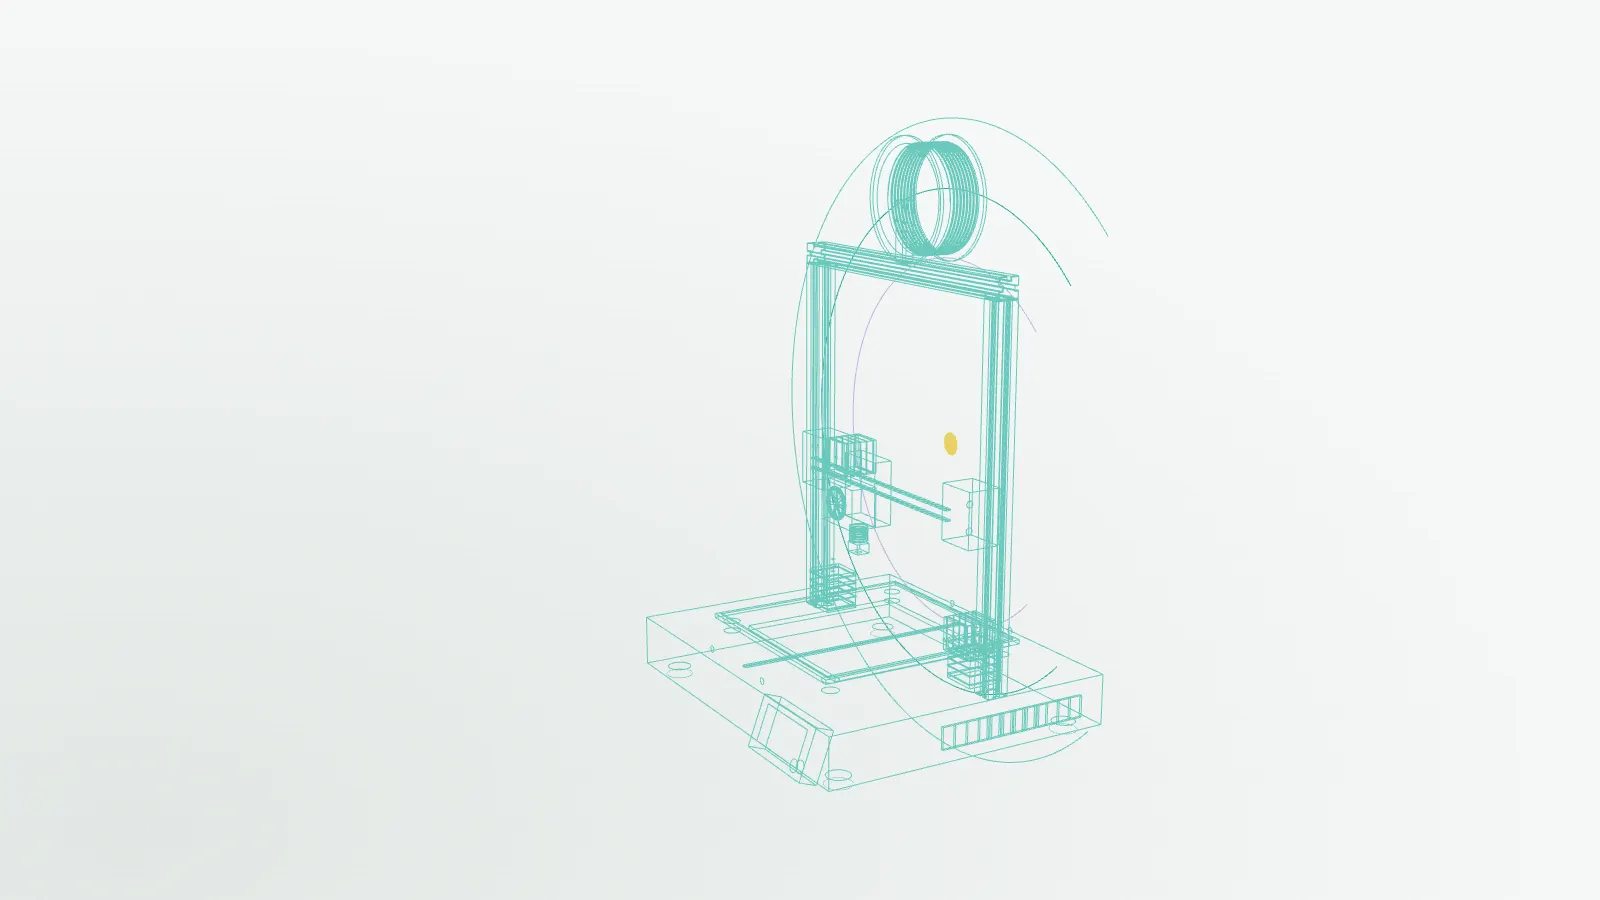
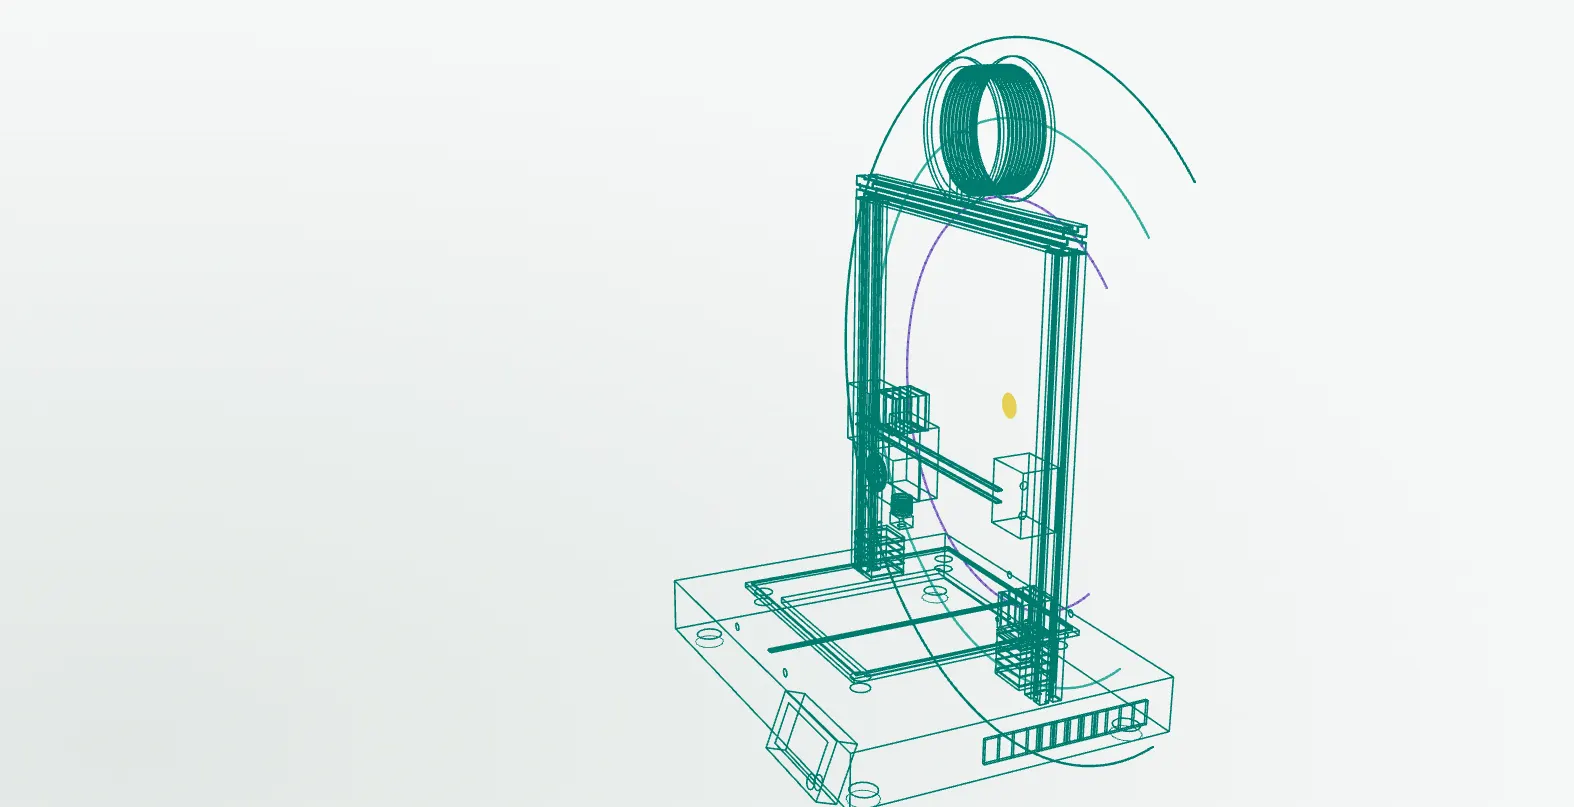
Refine the home story: brand colours, larger printer, slower scroll
The opening drawing uses wide lines in the site's teal and violet and
follows the theme. The print head is yellow, the filament and printed mug
are teal, and the dark studio sits on the site's dark blue instead of warm
brown. The camera is closer, stepping back while the printer is apart so
every part stays in view, and the story takes about 1.5 times as much
scrolling.

Until the scene loads, wide screens show its first frame as a poster, so
the page no longer opens with an empty half. render-stills now drives the
browser over the DevTools protocol and waits for the scene to report it
is drawn, instead of relying on a fixed time budget that captured empty
frames.

Changed region(s): [[0.4047, 0.031, 0.7471, 1.0], [0.716, 0.1239, 0.7471, 0.1549], [0.5915, 0.9603, 0.6226, 0.9913]]

diff --git a/src/scene/drawing.ts b/src/scene/drawing.ts
@@ -1,20 +1,34 @@
 import * as THREE from "three";
+import { Line2 } from "three/addons/lines/Line2.js";
+import { LineGeometry } from "three/addons/lines/LineGeometry.js";
+import { LineMaterial } from "three/addons/lines/LineMaterial.js";
+import { LineSegments2 } from "three/addons/lines/LineSegments2.js";
+import { LineSegmentsGeometry } from "three/addons/lines/LineSegmentsGeometry.js";
+import type { Theme } from "../theme/theme";
 import type { Printer } from "./printer";
 
 export interface Drawing {
   /** lineT draws the outline; fillT fades the outline out and the real materials in. */
   setReveal(lineT: number, fillT: number): void;
+  setTheme(theme: Theme): void;
+  /** Line widths are in pixels, so the lines need the canvas size. */
+  setResolution(width: number, height: number): void;
   dispose(): void;
 }
 
-const LINE = 0x3cc2b0;
+// The site's teal and violet: deep on paper, bright on the dark studio.
+const LINE: Record<Theme, number> = { light: 0x00756a, dark: 0x3cc2b0 };
+const ARCS: Record<Theme, number[]> = {
+  light: [0x00756a, 0x2a9d8f, 0x5b3fa8],
+  dark: [0x3cc2b0, 0x2a9d8f, 0x7c63d6],
+};
 const ACCENT = 0xf5c400;
 
 /**
  * The opening "technical drawing": the printer's own edges drawn as lines,
  * with the logo's concentric arcs behind it, then filled in with materials.
  */
-export function createDrawing(printer: Printer): Drawing {
+export function createDrawing(printer: Printer, theme: Theme): Drawing {
   printer.root.updateMatrixWorld(true);
   const rootInverse = printer.root.matrixWorld.clone().invert();
 
@@ -33,25 +47,24 @@ export function createDrawing(printer: Printer): Drawing {
     }
     edges.dispose();
   });
-  const geometry = new THREE.BufferGeometry();
-  geometry.setAttribute("position", new THREE.Float32BufferAttribute(positions, 3));
-  const vertexCount = positions.length / 3;
-  const lineMaterial = new THREE.LineBasicMaterial({ color: LINE, transparent: true, depthWrite: false });
-  const lines = new THREE.LineSegments(geometry, lineMaterial);
+  const geometry = new LineSegmentsGeometry().setPositions(positions);
+  const segmentCount = positions.length / 6;
+  const lineMaterial = new LineMaterial({ color: LINE[theme], linewidth: 1.6, transparent: true, depthWrite: false });
+  const lines = new LineSegments2(geometry, lineMaterial);
   printer.root.add(lines);
 
   // Three arcs like the logo, standing behind the printer.
   const arcGroup = new THREE.Group();
   arcGroup.position.set(0, 30, -12);
-  const arcMaterials: THREE.LineBasicMaterial[] = [];
-  const arcGeometries: THREE.BufferGeometry[] = [];
+  const arcMaterials: LineMaterial[] = [];
+  const arcGeometries: LineGeometry[] = [];
   [38, 30, 22].forEach((r, i) => {
     const curve = new THREE.EllipseCurve(0, 0, r, r, Math.PI * 0.25, Math.PI * 1.75, false, 0);
-    const g = new THREE.BufferGeometry().setFromPoints(curve.getPoints(96));
-    const m = new THREE.LineBasicMaterial({ color: i === 0 ? LINE : i === 1 ? 0x2a9d8f : 0x7c63d6, transparent: true, depthWrite: false });
+    const g = new LineGeometry().setPositions(curve.getPoints(96).flatMap((p) => [p.x, p.y, 0]));
+    const m = new LineMaterial({ color: ARCS[theme][i], linewidth: 2.4, transparent: true, depthWrite: false });
     arcGeometries.push(g);
     arcMaterials.push(m);
-    arcGroup.add(new THREE.Line(g, m));
+    arcGroup.add(new Line2(g, m));
   });
   const dotGeometry = new THREE.CircleGeometry(1.4, 24);
   const dotMaterial = new THREE.MeshBasicMaterial({ color: ACCENT, transparent: true, depthWrite: false });
@@ -71,7 +84,7 @@ export function createDrawing(printer: Printer): Drawing {
 
   return {
     setReveal(lineT, fillT) {
-      geometry.setDrawRange(0, Math.floor((vertexCount * lineT) / 2) * 2);
+      geometry.instanceCount = Math.floor(segmentCount * lineT);
       const outline = 1 - fillT;
       lineMaterial.opacity = outline;
       lines.visible = outline > 0.01;
@@ -94,6 +107,14 @@ export function createDrawing(printer: Printer): Drawing {
         for (const mesh of shadowCasters) mesh.castShadow = fillT > 0.3;
         lastFill = fillT;
       }
+    },
+    setTheme(next) {
+      lineMaterial.color.setHex(LINE[next]);
+      arcMaterials.forEach((m, i) => m.color.setHex(ARCS[next][i]));
+    },
+    setResolution(width, height) {
+      lineMaterial.resolution.set(width, height);
+      arcMaterials.forEach((m) => m.resolution.set(width, height));
     },
     dispose() {
       geometry.dispose();

diff --git a/src/scene/runScene.ts b/src/scene/runScene.ts
@@ -40,6 +40,9 @@ export interface SceneHandle {
 /** Lets the browser handle input and paint between the heavier set-up steps. */
 const yieldToMain = () => new Promise<void>((resolve) => setTimeout(resolve, 0));
 
+/** How much of the drawing shows at the very top of the page. */
+const DRAWING_START = 0.4;
+
 export async function startScene(canvas: HTMLCanvasElement, opts: SceneOptions): Promise<SceneHandle> {
   const quality = new QualityController(opts.quality);
   const renderer = new THREE.WebGLRenderer({ canvas, antialias: opts.quality === 2, powerPreference: "high-performance" });
@@ -58,7 +61,7 @@ export async function startScene(canvas: HTMLCanvasElement, opts: SceneOptions):
   scene.add(stage);
   const studio = createStudio(renderer, scene, opts.theme, opts.quality, stage, printer.root.position.y);
   await yieldToMain();
-  const drawing = createDrawing(printer);
+  const drawing = createDrawing(printer, opts.theme);
   await yieldToMain();
   const job = createPrintJob(printer.bedSurface, opts.quality);
   const hand = createHand(opts.quality);
@@ -74,10 +77,11 @@ export async function startScene(canvas: HTMLCanvasElement, opts: SceneOptions):
     const { clientWidth: w, clientHeight: h } = canvas;
     if (!w || !h) return;
     renderer.setSize(w, h, false);
+    drawing.setResolution(w, h);
     camera.aspect = w / h;
     // Wide screens keep the text on the left and the printer on the right.
     wide = camera.aspect > 1.1;
-    stage.position.x = wide ? 28 : 0;
+    stage.position.x = wide ? 34 : 0;
     stage.position.y = wide ? 4 : 16;
     camera.updateProjectionMatrix();
     handle.invalidate();
@@ -90,10 +94,12 @@ export async function startScene(canvas: HTMLCanvasElement, opts: SceneOptions):
   const home = new THREE.Vector3();
   const lookAt = new THREE.Vector3();
 
-  function placeCamera(use: number, mug: THREE.Vector3) {
-    // In the last scene the camera moves in and turns towards the mug.
+  function placeCamera(use: number, apart: number, mug: THREE.Vector3) {
+    // The camera steps back while the printer is apart, so every part stays in
+    // view. In the last scene it moves in and turns towards the mug.
     const push = smoothstep(use);
-    camera.position.set(85 - push * 35, 46 - push * 16, (wide ? 180 : 240) - push * (wide ? 90 : 120));
+    const back = apart * (wide ? 30 : 40);
+    camera.position.set(85 - push * 35, 46 - push * 16, (wide ? 140 : 190) + back - push * (wide ? 50 : 70));
     home.set(wide ? 20 : 0, 2, 0);
     lookAt.copy(home).lerp(mug, push * 0.85);
     camera.lookAt(lookAt);
@@ -127,9 +133,10 @@ export async function startScene(canvas: HTMLCanvasElement, opts: SceneOptions):
 
     const p = opts.getProgress();
 
-    // 1. Drawing → object.
+    // 1. Drawing → object. The drawing is already under way at the top of the
+    //    page, matching the poster frame shown before the scene loads.
     const draw = localProgress(p, "draw");
-    drawing.setReveal(smoothstep(draw / 0.6), smoothstep((draw - 0.55) / 0.45));
+    drawing.setReveal(DRAWING_START + (1 - DRAWING_START) * smoothstep(draw / 0.6), smoothstep((draw - 0.55) / 0.45));
 
     // 2–3. Turn, then take apart.
     stage.rotation.y = -0.7 + localProgress(p, "meet") * 1.4 + localProgress(p, "explode") * 0.5 - localProgress(p, "print") * 0.5;
@@ -167,7 +174,7 @@ export async function startScene(canvas: HTMLCanvasElement, opts: SceneOptions):
     hand.object.position.set(mugInStage.x + 9 + (1 - use.hand) * 30, mugInStage.y + 3 - (1 - use.hand) * 18, mugInStage.z);
     hand.object.rotation.y = job.object.rotation.y;
     hand.setPose(use.grip);
-    placeCamera(u, mugWorld);
+    placeCamera(u, apart, mugWorld);
 
     renderer.render(scene, camera);
     updateLabels(apart);
@@ -177,6 +184,7 @@ export async function startScene(canvas: HTMLCanvasElement, opts: SceneOptions):
   const handle: SceneHandle = {
     setTheme(theme) {
       studio.setTheme(theme);
+      drawing.setTheme(theme);
       handle.invalidate();
     },
     invalidate() {

diff --git a/src/components/HomeStory.tsx b/src/components/HomeStory.tsx
@@ -1,7 +1,7 @@
 "use client";
 
 import Link from "next/link";
-import { useEffect, useRef, useState } from "react";
+import { type CSSProperties, useEffect, useRef, useState } from "react";
 import type { Dictionary, Locale } from "@/i18n/config";
 import { PART_IDS, type PartId } from "@/scene/parts";
 import { initialQuality } from "@/scene/quality";
@@ -9,7 +9,7 @@ import type { SceneHandle } from "@/scene/runScene";
 import { progressFor } from "@/scene/scrollProgress";
 import { SCENES, localProgress } from "@/scene/timeline";
 import { readTheme, useTheme } from "@/theme/useTheme";
-import { STILLS } from "./storyStills";
+import { POSTERS, STILLS } from "./storyStills";
 
 type Mode = "pending" | "live" | "stills";
 
@@ -166,7 +166,10 @@ export function HomeStory({ lang, t }: { lang: Locale; t: Dictionary["home"] }) 
       className={`story story--${mode}${ready ? " story--ready" : ""}${still ? " story--still" : ""}`}
       aria-labelledby="story-title"
     >
-      <div className="story__stage">
+      <div
+        className="story__stage"
+        style={{ "--poster-light": `url(${POSTERS.light.src})`, "--poster-dark": `url(${POSTERS.dark.src})` } as CSSProperties}
+      >
         <canvas ref={canvasRef} className="story__canvas" aria-hidden="true" />
         {/* Part labels; screen readers get the same list in the story text. */}
         <div className="story__labels" aria-hidden="true">

diff --git a/src/app/globals.css b/src/app/globals.css
@@ -351,6 +351,24 @@ main:focus {
   overflow: hidden;
 }
 
+/* Until the scene loads, wide screens show its first frame. Scaled to the
+   stage height, it lines up with the canvas at any width. */
+@media (min-aspect-ratio: 11/10) {
+  .story__stage {
+    background: var(--poster-light) center / auto 100% no-repeat;
+  }
+
+  :root[data-theme="dark"] .story__stage {
+    background-image: var(--poster-dark);
+  }
+}
+
+@media (min-aspect-ratio: 11/10) and (prefers-color-scheme: dark) {
+  :root:not([data-theme="light"]) .story__stage {
+    background-image: var(--poster-dark);
+  }
+}
+
 .story__canvas {
   position: absolute;
   inset: 0;
@@ -392,7 +410,7 @@ main:focus {
 }
 
 .story__beat {
-  min-height: 120svh;
+  min-height: 180svh;
   display: flex;
   flex-direction: column;
   justify-content: flex-start;
@@ -402,7 +420,7 @@ main:focus {
 }
 
 .story__beat--intro {
-  min-height: 100svh;
+  min-height: 150svh;
   opacity: 1;
 }
 
@@ -449,6 +467,7 @@ main:focus {
   position: fixed;
   inset: 0;
   height: 100vh;
+  background: none;
 }
 
 /* Still frames serve both languages, so they carry no label text. */
@@ -464,6 +483,11 @@ main:focus {
   .story__beat {
     justify-content: center;
     padding-block: 0;
+  }
+
+  /* The intro stays centred in the first screen; the rest is scroll room. */
+  .story__beat--intro {
+    padding-bottom: 50svh;
   }
 }
 

diff --git a/src/scene/printer.ts b/src/scene/printer.ts
@@ -46,12 +46,12 @@ function materials() {
     bed: new THREE.MeshStandardMaterial({ color: 0xb48c42, metalness: 0.9, roughness: 0.33 }),
     pei,
     plastic: new THREE.MeshStandardMaterial({ color: 0x24272b, metalness: 0.1, roughness: 0.48 }),
-    accent: new THREE.MeshStandardMaterial({ color: 0xff6a1a, metalness: 0.05, roughness: 0.45 }),
+    accent: new THREE.MeshStandardMaterial({ color: 0xf5c400, metalness: 0.05, roughness: 0.45 }),
     motor: new THREE.MeshStandardMaterial({ color: 0x141517, metalness: 0.35, roughness: 0.42 }),
     belt: new THREE.MeshStandardMaterial({ color: 0x0c0c0d, metalness: 0, roughness: 0.92 }),
     rubber: new THREE.MeshStandardMaterial({ color: 0x101010, metalness: 0, roughness: 0.85 }),
     spool: new THREE.MeshStandardMaterial({ color: 0x1b1c1e, metalness: 0.05, roughness: 0.4 }),
-    filament: new THREE.MeshStandardMaterial({ color: 0xe9e4d8, metalness: 0, roughness: 0.36 }),
+    filament: new THREE.MeshStandardMaterial({ color: 0x2aa898, metalness: 0, roughness: 0.36 }),
     brass: new THREE.MeshStandardMaterial({ color: 0xc8a046, metalness: 1, roughness: 0.28 }),
     screen: new THREE.MeshStandardMaterial({ color: 0x000000, emissive: 0xffffff, emissiveIntensity: 1, roughness: 0.25 }),
   };

diff --git a/src/scene/studio.ts b/src/scene/studio.ts
@@ -4,16 +4,16 @@ import type { Theme } from "../theme/theme";
 import type { QualityLevel } from "./quality";
 import { StudioTransition, type StudioValues } from "./studioMix";
 
-// Dark: a warm, low-key studio like a product shoot at night.
+// Dark: a low-key studio on the site's dark ink, with a teal glow and rim.
 // Light: a soft, bright studio on the site's paper colour.
 const LOOKS: Record<Theme, StudioValues> = {
   dark: {
-    background: 0x15120f,
-    glow: 0x6b3416,
+    background: 0x101416,
+    glow: 0x0f3b3c,
     glowStrength: 0.85,
-    key: 0xffb070,
+    key: 0xe4efff,
     keyIntensity: 4.2,
-    rim: 0xffd2a0,
+    rim: 0x8fe3d6,
     rimIntensity: 3.2,
     fill: 0.35,
     env: 0.45,
@@ -59,7 +59,7 @@ export function createStudio(
   background.colorSpace = THREE.SRGBColorSpace;
   scene.background = background;
 
-  const hemi = new THREE.HemisphereLight(0xffffff, 0x2a2420, 1);
+  const hemi = new THREE.HemisphereLight(0xffffff, 0x1f2a2e, 1);
   const key = new THREE.DirectionalLight(0xffffff, 1);
   key.position.set(-70, 95, 60);
   key.castShadow = quality > 0;

diff --git a/src/components/storyStills.ts b/src/components/storyStills.ts
@@ -1,9 +1,11 @@
 import type { StaticImageData } from "next/image";
+import dark0 from "@/assets/story/dark-0.webp";
 import dark1 from "@/assets/story/dark-1.webp";
 import dark2 from "@/assets/story/dark-2.webp";
 import dark3 from "@/assets/story/dark-3.webp";
 import dark4 from "@/assets/story/dark-4.webp";
 import dark5 from "@/assets/story/dark-5.webp";
+import light0 from "@/assets/story/light-0.webp";
 import light1 from "@/assets/story/light-1.webp";
 import light2 from "@/assets/story/light-2.webp";
 import light3 from "@/assets/story/light-3.webp";
@@ -20,3 +22,6 @@ export const STILLS: Record<Theme, StaticImageData[]> = {
   light: [light1, light2, light3, light4, light5],
   dark: [dark1, dark2, dark3, dark4, dark5],
 };
+
+/** The scene at the very top of the page, shown on the stage until the scene loads. */
+export const POSTERS: Record<Theme, StaticImageData> = { light: light0, dark: dark0 };

diff --git a/src/scene/printJob.ts b/src/scene/printJob.ts
@@ -21,7 +21,7 @@ export function createPrintJob(bedSurface: THREE.Object3D, quality: QualityLevel
   const object = new THREE.Group();
   bedSurface.add(object);
 
-  const filament = new THREE.MeshStandardMaterial({ color: 0xe9e4d8, roughness: 0.42, metalness: 0 });
+  const filament = new THREE.MeshStandardMaterial({ color: 0x2aa898, roughness: 0.42, metalness: 0 });
   const current = new THREE.MeshStandardMaterial({ color: 0xf5c400, emissive: 0x6b4e00, roughness: 0.4 });
   const segments = quality === 2 ? 64 : 32;
   const thickness = LAYER_HEIGHT * 0.9;

diff --git a/CHANGELOG.md b/CHANGELOG.md
@@ -5,6 +5,18 @@ Fikirler Derneği) under WP5, Activity 5.1 (Dissemination of Project Results
 and Stakeholder Outreach). Every change is also recorded in the commit history
 of this repository: https://github.com/laroca00/3dcare/commits/main
 
+## 2026-10-19
+
+### Scroll story refinements
+- The story uses the project's own colours: the opening drawing is drawn in
+  bolder teal and violet lines, the printed mug and filament are teal, the
+  print head is yellow, and the dark theme's studio uses the site's dark blue
+  instead of warm brown.
+- The printer appears larger, and the story scrolls about 1.5 times more
+  slowly, so each step has more time on screen.
+- On wide screens the opening drawing is shown as a picture straight away,
+  so the page no longer opens with an empty half before the 3D scene loads.
+
 ## 2026-10-18 (continued)
 
 ### Scroll story on the home page
